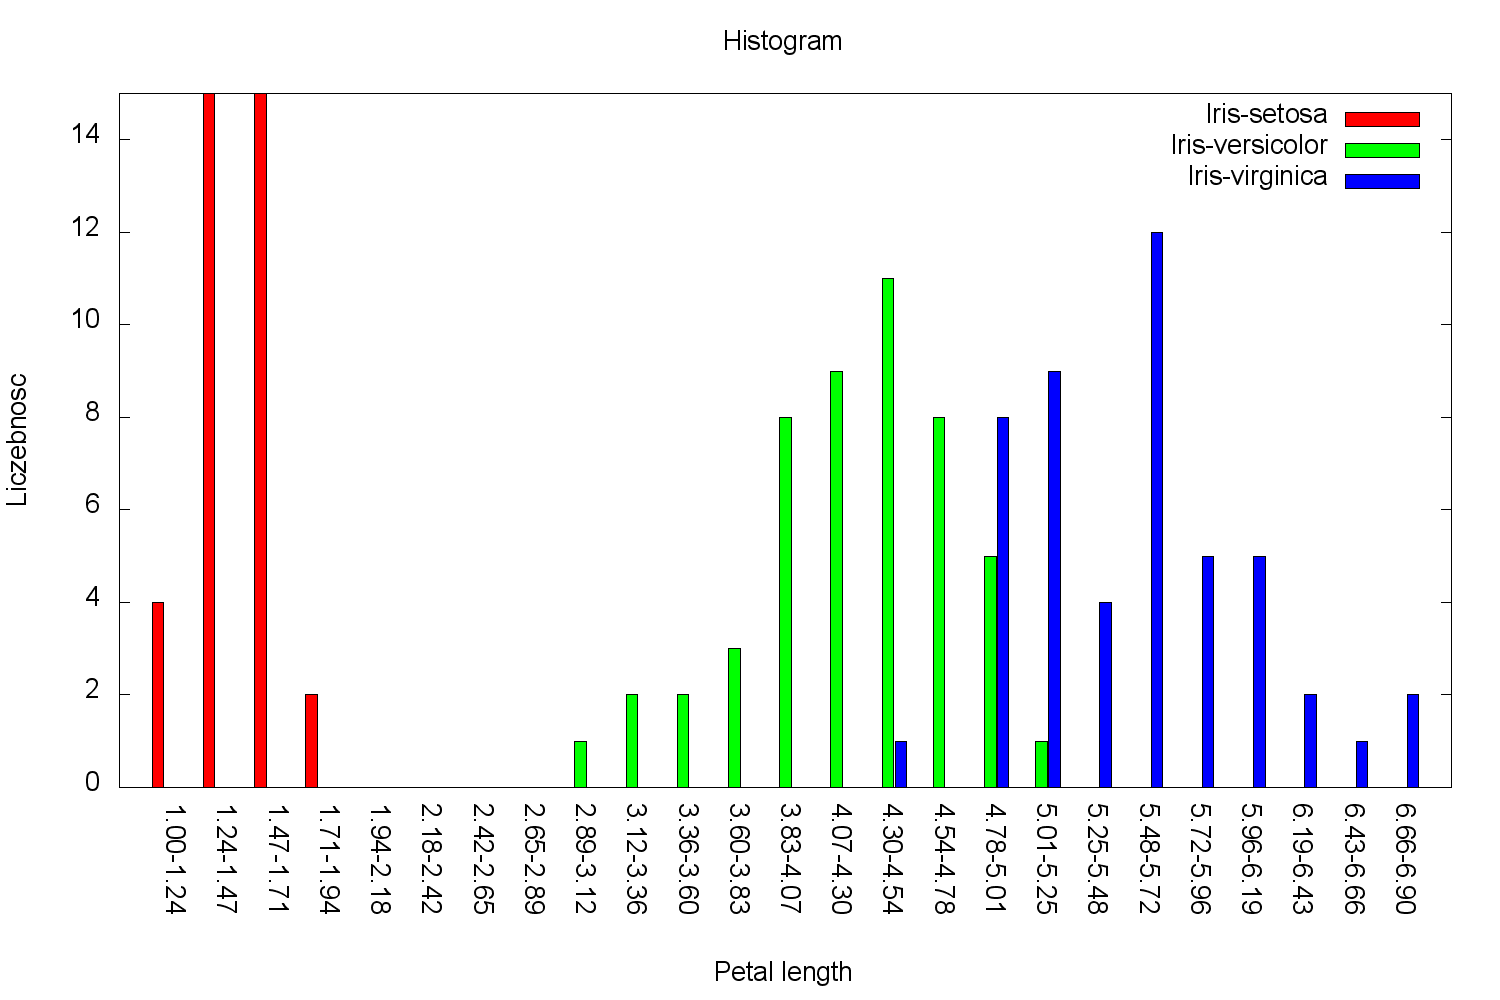
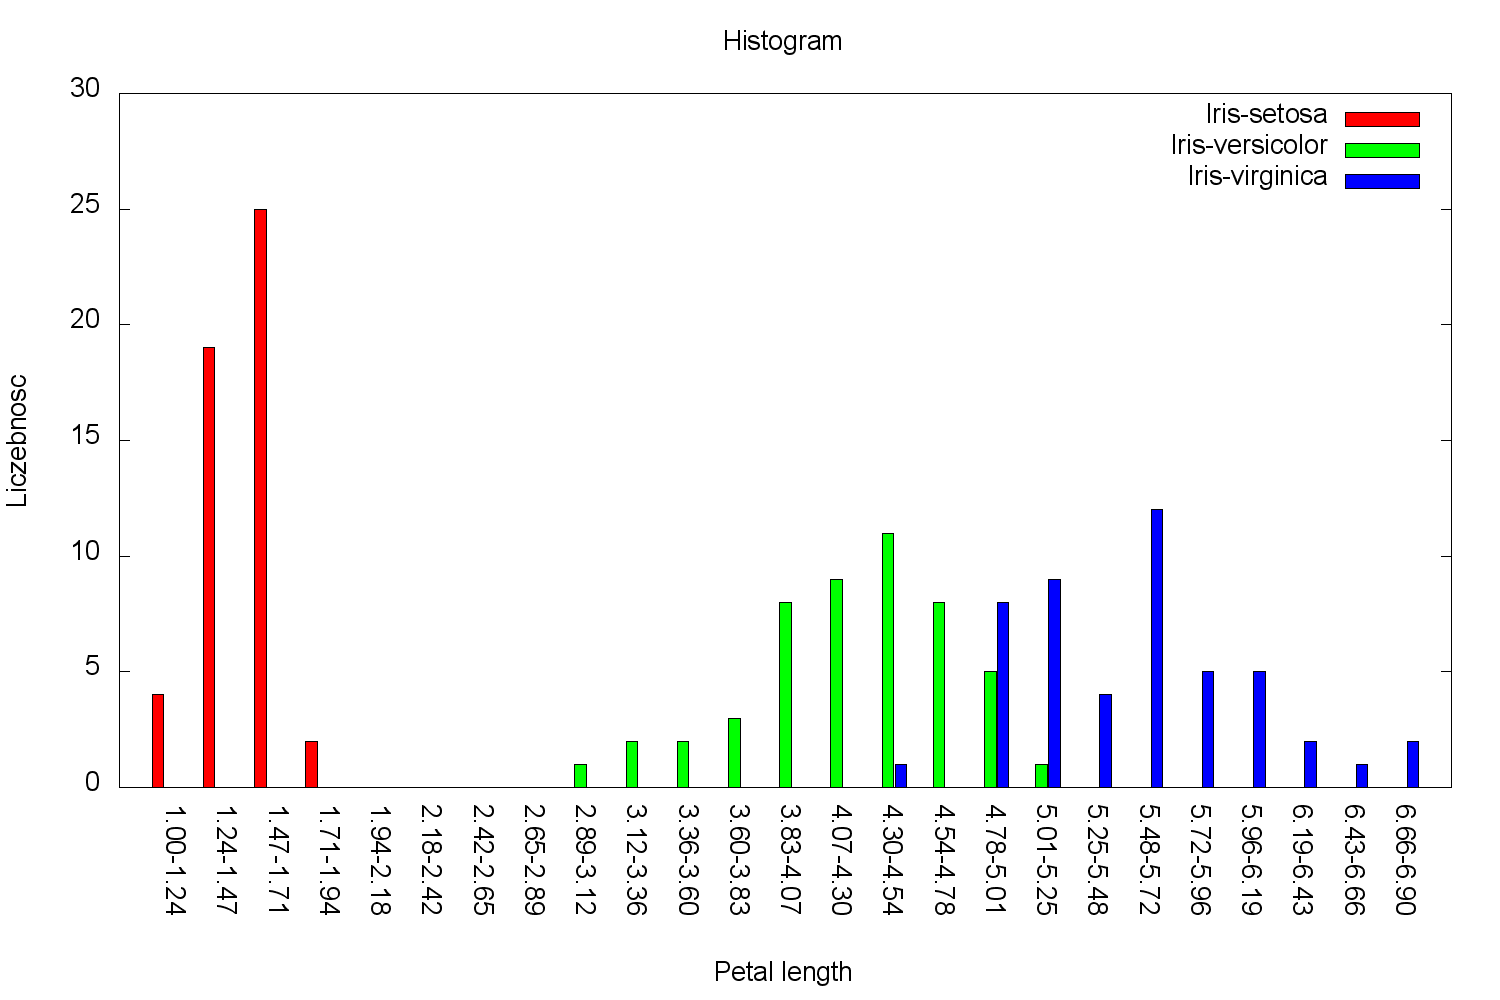
Poprawione zakresy

diff --git a/zad_1/zad_1/Program.cs b/zad_1/zad_1/Program.cs
@@ -129,7 +129,7 @@ class IRIS
         gnupStWr.WriteLine("set xlabel '" + title + "'");
         gnupStWr.WriteLine("set ylabel 'Liczebnosc'");
         gnupStWr.WriteLine("set title 'Histogram'");
-        gnupStWr.WriteLine("set yrange[0 : 15 ] noreverse nowriteback");
+        gnupStWr.WriteLine("set yrange[0 : 30 ] noreverse nowriteback");
         gnupStWr.WriteLine("i = 23");
         gnupStWr.WriteLine(@"plot '" + fullFilePath + "' using 2:xtic(1) title 'Iris-setosa' lc rgb 'red', '' u 3 title 'Iris-versicolor' lc rgb 'green', '' u 4 title 'Iris-virginica' lc rgb 'blue'");
 
